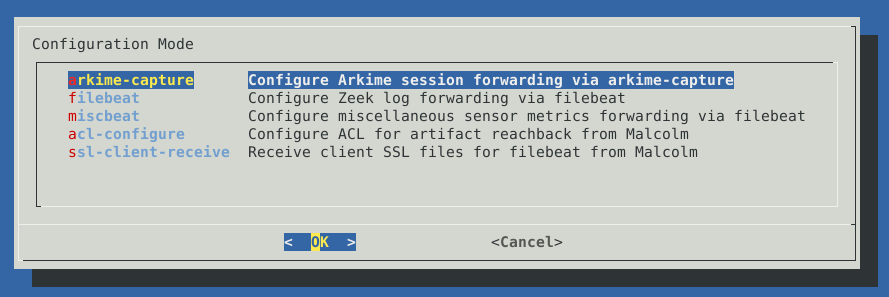
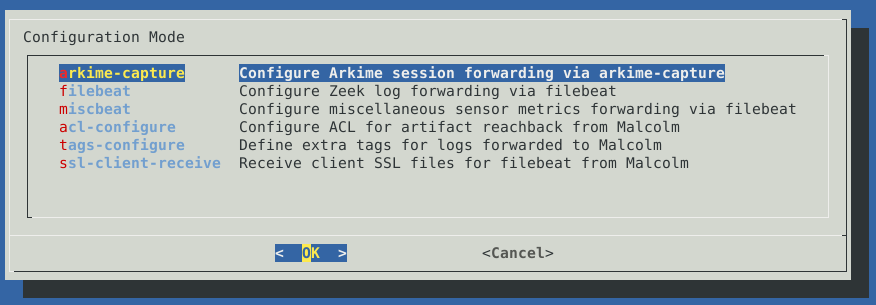
idaholab/Malcolm#463, documentation

Changed region(s): [[0.0, 0.0303, 1.0, 1.0]]

diff --git a/docs/malcolm-hedgehog-e2e-iso-install.md b/docs/malcolm-hedgehog-e2e-iso-install.md
@@ -30,6 +30,7 @@ In contrast to using the ISO installer, Malcolm can also be installed on any x86
         * [filebeat](#Hedgehogfilebeat): Zeek and Suricata log forwarding
         * [miscbeat](#Hedgehogmiscbeat): System metrics forwarding        
         * [acl-configure](#HedgehogACL): Configure ACL for artifact reachback from Malcolm
+        * [tags-configure](#HedgehogTags): Specify extra tags for forwarded logs
     - [Autostart services](#HedgehogConfigAutostart)
     - [Managing disk usage](#HedgehogDiskUsage)
 * [Verifying Traffic Capture and Forwarding](#Verify)
@@ -586,6 +587,12 @@ This forwarder's configuration is almost identical to that of [filebeat](#Hedgeh
 Users will be shown a dialog for a list of IP addresses used to populate a firewall access control list (ACL) for hosts allowed to connect back to the sensor for retrieving session payloads from its PCAP files (over port `8005/tcp`) for display in Arkime viewer and for downloading files (over port `8006/tcp`) [extracted and preserved by Zeek](#HedgehogZeekFileExtraction). The list will be prepopulated with the IP address entered a few screens prior to this one.
 
 ![PCAP retrieval ACL](./images/hedgehog/images/malcolm_arkime_reachback_acl.png)
+
+### <a name="HedgehogTags"></a>tags-configure: Specify extra tags for forwarded logs
+
+Users may populate a list of values, one per line, to be added to the `tags` field for logs forwarded from the sensor to a Malcolm aggregator. These tags may make it easier to identify or search for data during analysis.
+
+![Extra tags](./images/hedgehog/images/forwarder_tags_config.png)
 
 ### <a name="HedgehogConfigAutostart"></a>Autostart services
 

diff --git a/docs/hedgehog.md b/docs/hedgehog.md
@@ -30,6 +30,7 @@ Hedgehog Linux is a Debian-based operating system built to
         * [filebeat](malcolm-hedgehog-e2e-iso-install.md#Hedgehogfilebeat): Zeek and Suricata log forwarding
         * [miscbeat](malcolm-hedgehog-e2e-iso-install.md#Hedgehogmiscbeat): System metrics forwarding        
         * [acl-configure](malcolm-hedgehog-e2e-iso-install.md#HedgehogACL): Configure ACL for artifact reachback from Malcolm
+        * [tags-configure](malcolm-hedgehog-e2e-iso-install.md#HedgehogTags): Specify extra tags for forwarded logs
     - [Autostart services](malcolm-hedgehog-e2e-iso-install.md#HedgehogConfigAutostart)
     - [Managing disk usage](malcolm-hedgehog-e2e-iso-install.md#HedgehogDiskUsage)
     - [Zeek Intelligence Framework](hedgehog-config-zeek-intel.md#HedgehogZeekIntel)
